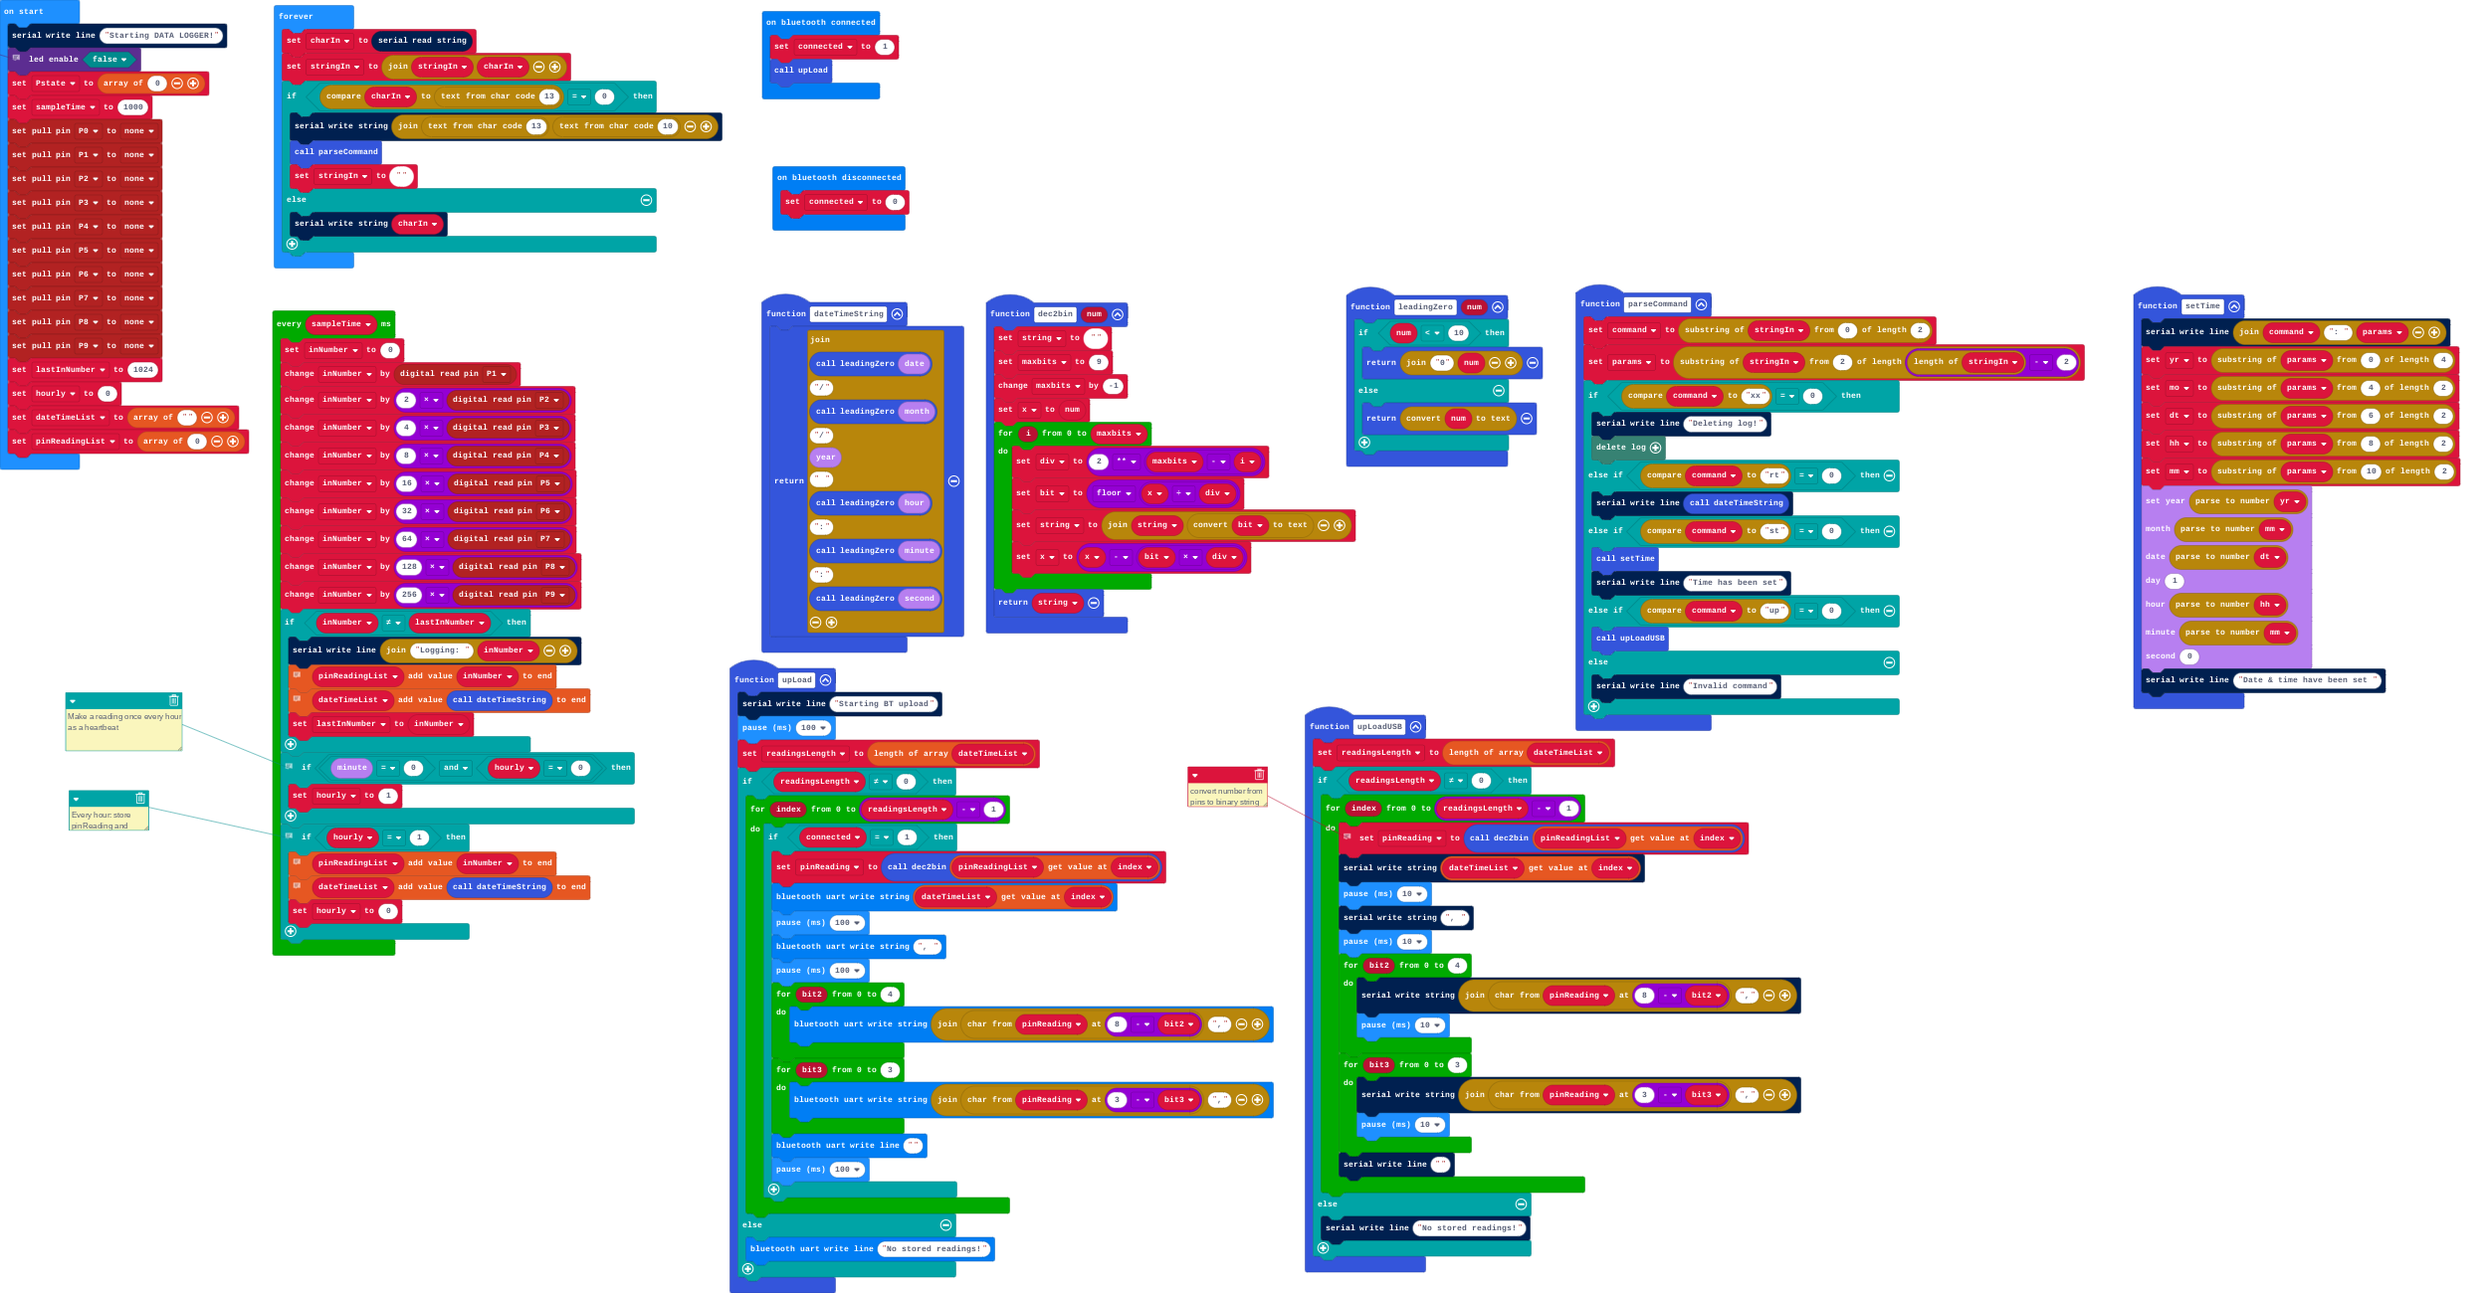
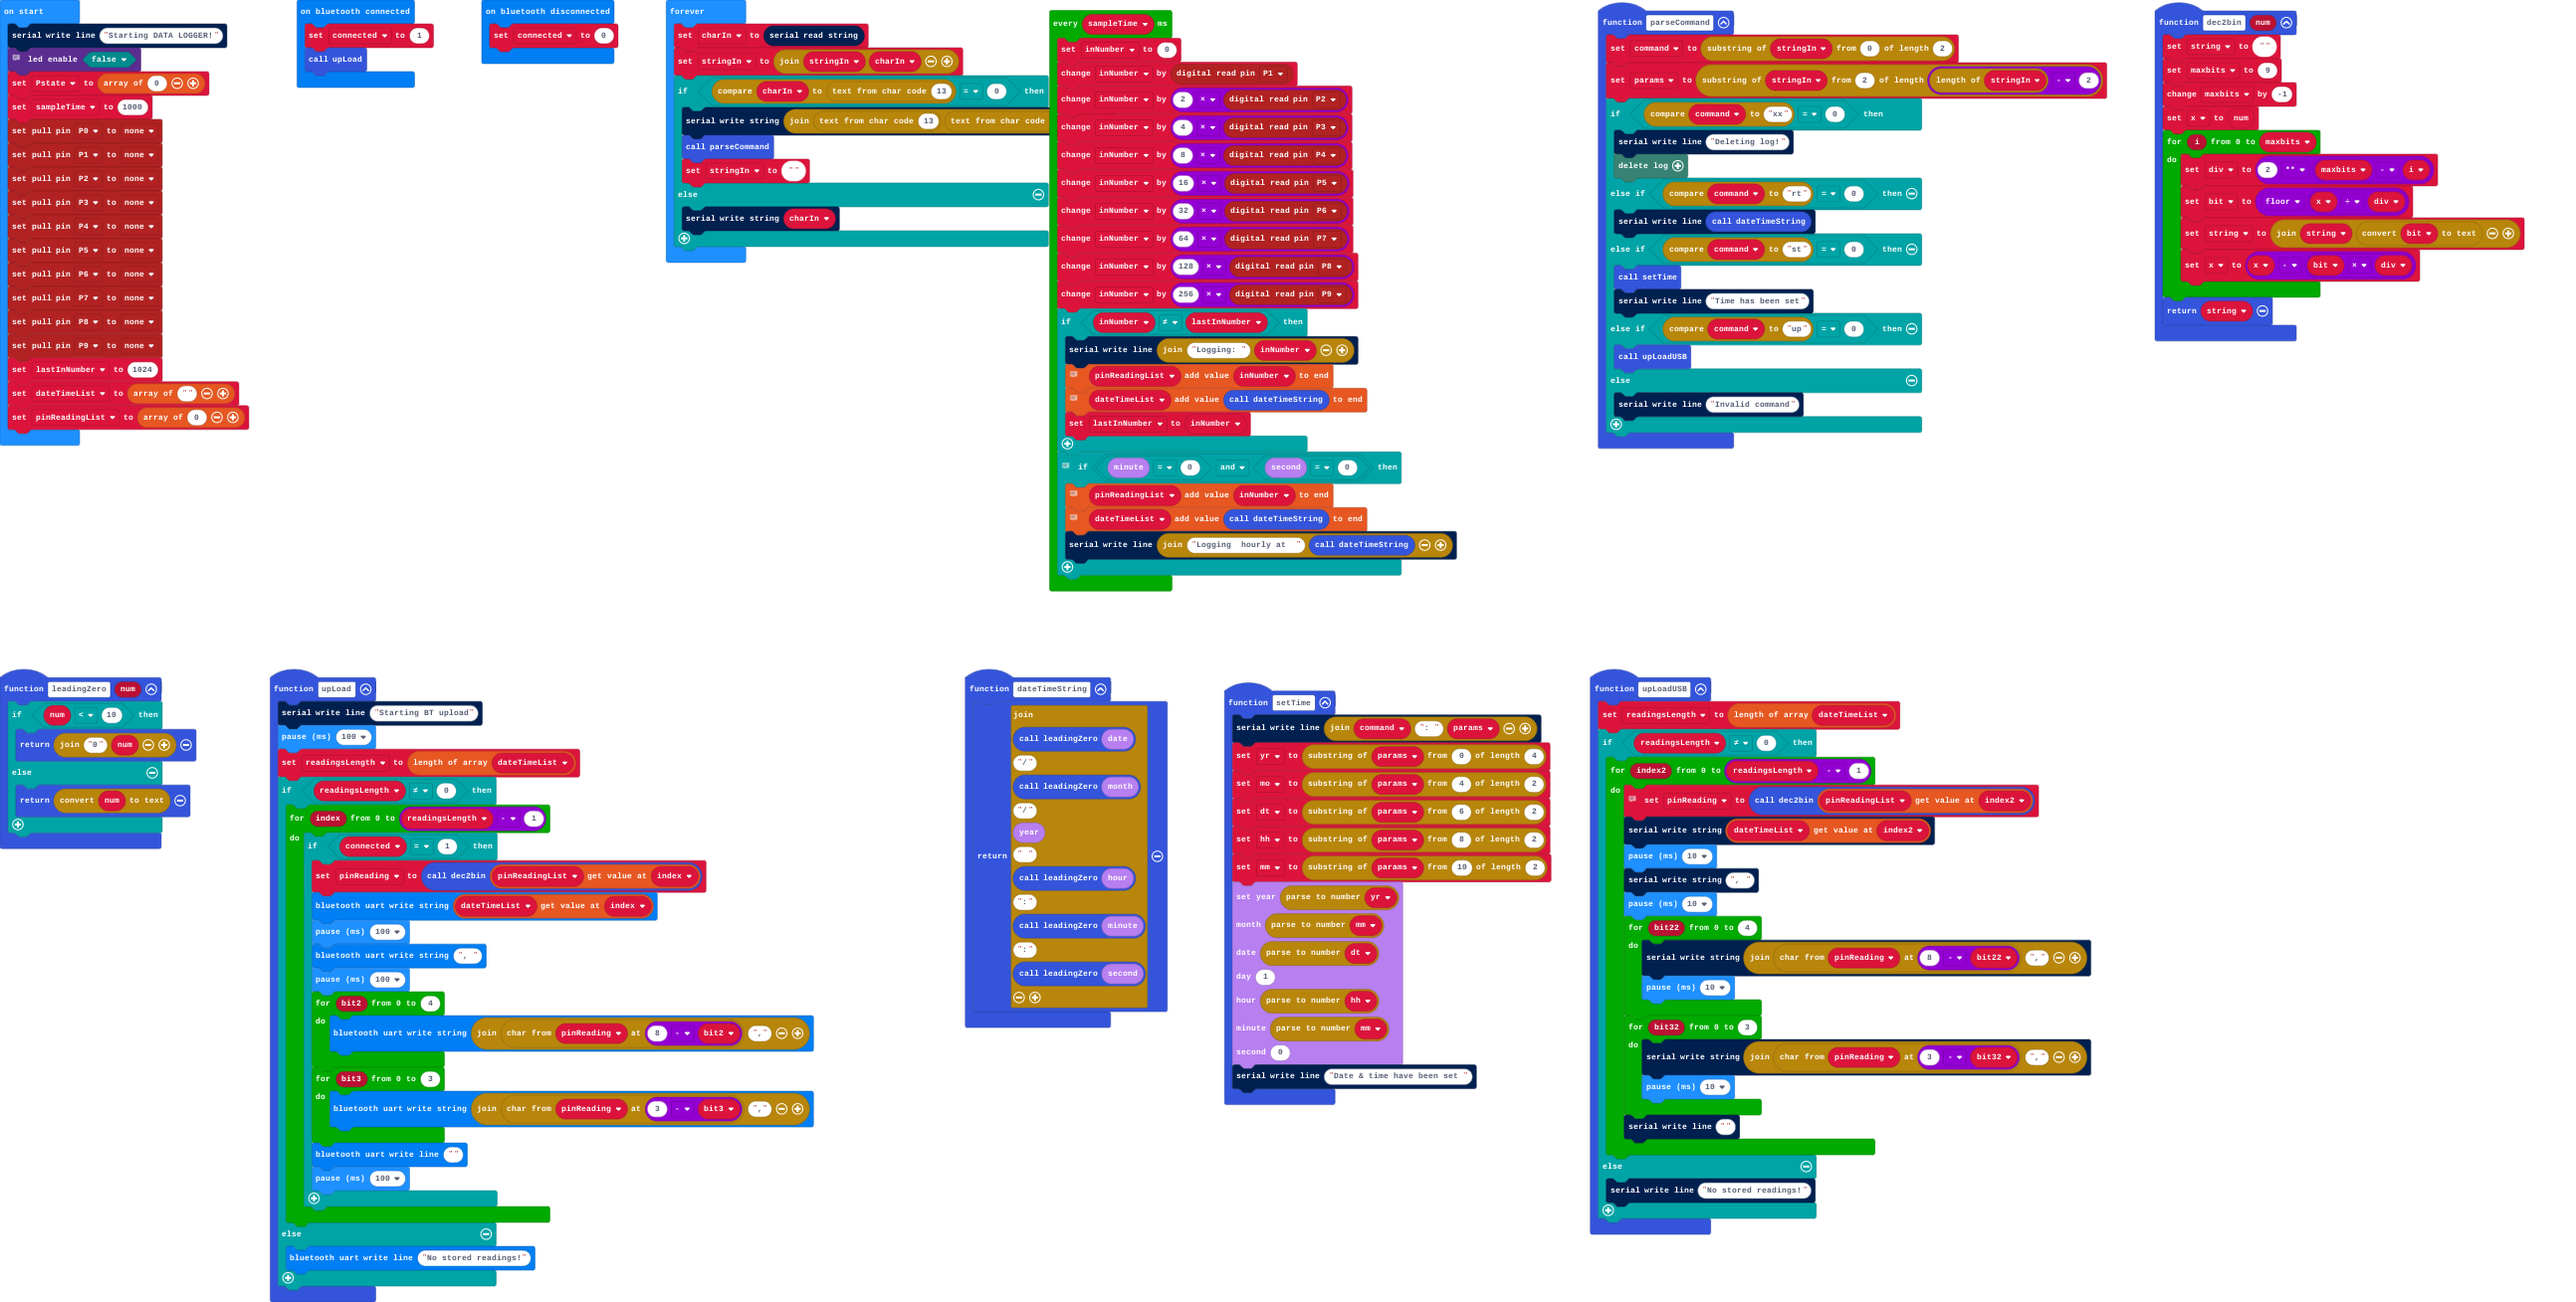
fixed hourly recording

diff --git a/main.ts b/main.ts
@@ -92,19 +92,19 @@ function setTime () {
 function upLoadUSB () {
     readingsLength = dateTimeList.length
     if (readingsLength != 0) {
-        for (let index = 0; index <= readingsLength - 1; index++) {
+        for (let index2 = 0; index2 <= readingsLength - 1; index2++) {
             // convert number from pins to binary string
-            pinReading = dec2bin(pinReadingList[index])
-            serial.writeString(dateTimeList[index])
+            pinReading = dec2bin(pinReadingList[index2])
+            serial.writeString(dateTimeList[index2])
             basic.pause(10)
             serial.writeString(", ")
             basic.pause(10)
-            for (let bit2 = 0; bit2 <= 4; bit2++) {
-                serial.writeString("" + pinReading.charAt(8 - bit2) + ",")
+            for (let bit22 = 0; bit22 <= 4; bit22++) {
+                serial.writeString("" + pinReading.charAt(8 - bit22) + ",")
                 basic.pause(10)
             }
-            for (let bit3 = 0; bit3 <= 3; bit3++) {
-                serial.writeString("" + pinReading.charAt(3 - bit3) + ",")
+            for (let bit32 = 0; bit32 <= 3; bit32++) {
+                serial.writeString("" + pinReading.charAt(3 - bit32) + ",")
                 basic.pause(10)
             }
             serial.writeLine("")
@@ -149,7 +149,6 @@ pins.setPull(DigitalPin.P7, PinPullMode.PullNone)
 pins.setPull(DigitalPin.P8, PinPullMode.PullNone)
 pins.setPull(DigitalPin.P9, PinPullMode.PullNone)
 let lastInNumber = 1024
-let hourly = 0
 dateTimeList = [""]
 pinReadingList = [0]
 basic.forever(function () {
@@ -183,15 +182,11 @@ loops.everyInterval(sampleTime, function () {
         lastInNumber = inNumber
     }
     // Make a reading once every hour as a heartbeat
-    if (DS3231.minute() == 0 && hourly == 0) {
-        hourly = 1
-    }
-    // Every hour: store pinReading and battery voltage (TODO)
-    if (hourly == 1) {
+    if (DS3231.minute() == 0 && DS3231.second() == 0) {
         // store pin state
         pinReadingList.push(inNumber)
         // store timestamp
         dateTimeList.push(dateTimeString())
-        hourly = 0
+        serial.writeLine("Logging  hourly at  " + dateTimeString())
     }
 })
